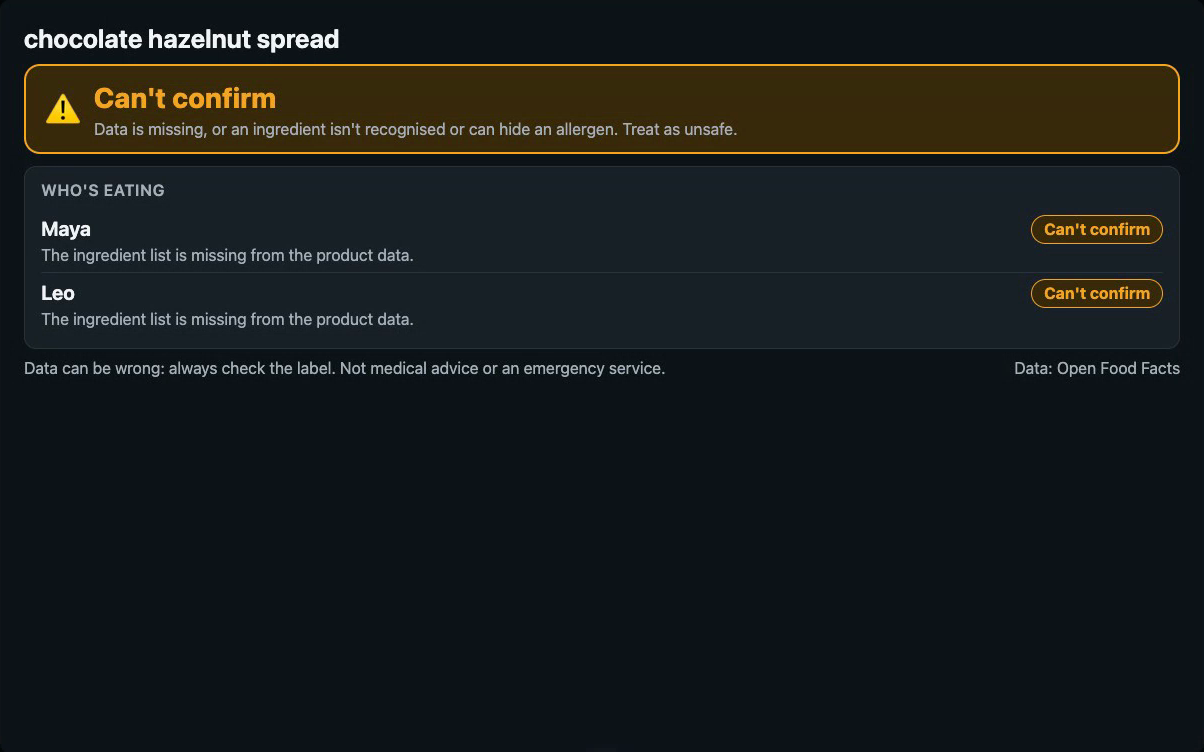
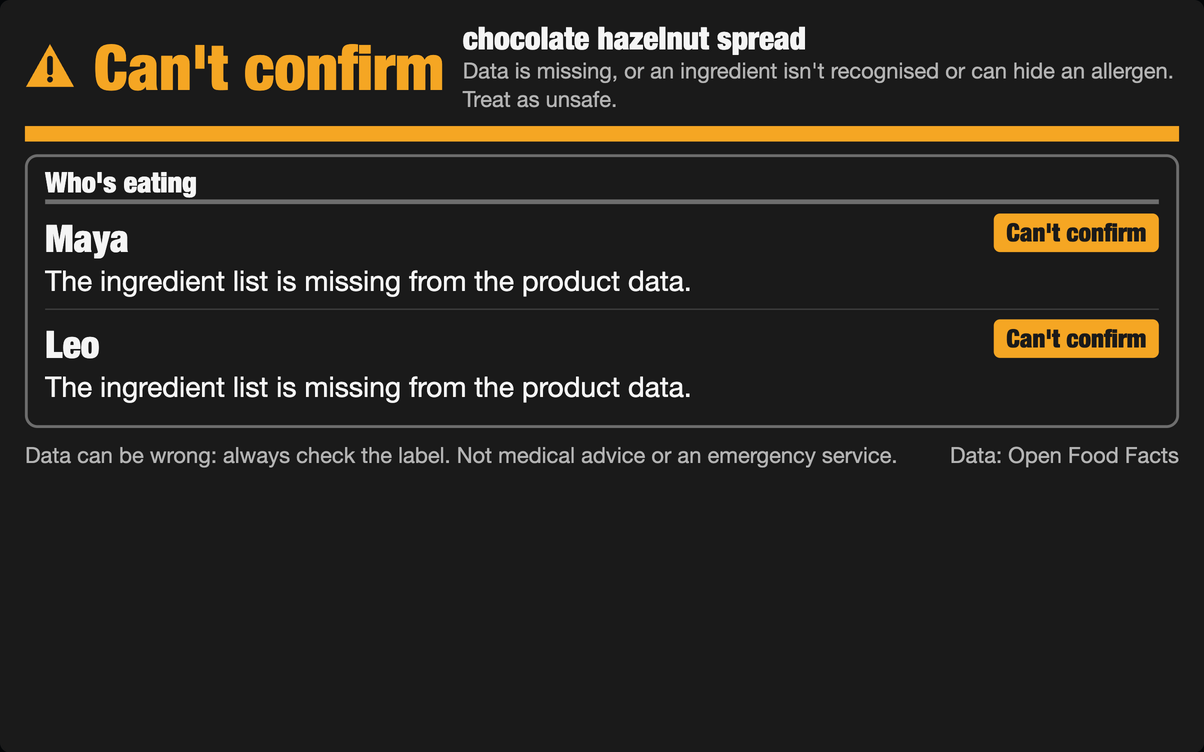
docs: demo video v8

Changed region(s): [[0.0, 0.0306, 0.9834, 0.6423], [0.799, 0.367, 0.9834, 0.5199]]

diff --git a/docs/DEMO.md b/docs/DEMO.md
@@ -1,14 +1,16 @@
 # Demo video
 
-The submitted video (2:56, 3840×2160 at 60 fps, recorded 8 October 2026) is a real run, not a mock-up:
+The submitted video (2:57, 3840×2160 at 60 fps, recorded 11 October 2026) is a real run, not a mock-up:
 - The simulator was recorded in headless Chrome while a local model (Qwen3.5 9B, MLX) drove the MCP server, with live Open Food Facts and TheMealDB data.
 - The waits for the model were cut.
+- The server's clock was set to 8 October 2026 12:00, the day Alexa's lines were captured, so the guest's end date ("until Saturday 10 October") and every answer match those captures.
 - Frames were captured losslessly at 2× device scale (Chrome DevTools screencast) and encoded once at the end, so the text stays sharp at 4K.
+- The simulator shows the screen as an Echo Show 8 would (1280×800, scaled to fit). Captions and the short labels were added in editing, timed to the spoken words; zooms and the dimming around them were recorded in the browser.
+- The opening and closing slides are HTML pages recorded the same way.
 - Alexa's lines are Amazon's own Alexa voice, rendered in the Alexa developer console (a private test skill, Test tab, Voice & Tone) from the exact text the run returned.
 - The narrator and the user are local text-to-speech with Boson AI's Higgs Audio (Higgs TTS 3), used under its Creator Use Grant, from reference voices made for this project, so no real person's voice is imitated.
 - Credit, as the licence asks: "This audio was created with Boson AI's Higgs Audio — https://www.boson.ai/higgs-audio".
 - Alexa's lines are exactly what the run returned. Every clip was checked against its script with Whisper.
-- The recorded run rendered the widget in the simulator's earlier 944×590 frame (the simulator's own size, not an Echo Show spec), scaled to fill the video frame. The simulator now emulates an Echo Show 8 (1280×800 with the guide's 1.667 root scale over a 768×480 base canvas), and the widget was re-measured to fit; the video was not re-recorded, so it shows the earlier layout.
 - Products are shown by their generic names from the records.
 - The phone scans were recorded with Chrome's fake camera showing an image of each product's real barcode; the scan page decoded them live.
 
@@ -16,18 +18,20 @@ The submitted video (2:56, 3840×2160 at 60 fps, recorded 8 October 2026) is a r
 
 | On screen | Audio |
 |---|---|
-| A product record: chocolate hazelnut spread, allergens none listed, ingredients missing | "This is a real product record from Open Food Facts: a chocolate hazelnut spread, with an empty allergen list. A checker that only trusts that list would call it allergen-free." Then: "It's not rare: more than half the products scanned in the Open Food Facts app look like this." On screen: "53% of products scanned in the Open Food Facts app look like this". |
-| Title card | "Allergy Crosscheck is an Alexa+ add-on that checks food for everyone at the table, and tells you who can eat it, and why." |
-| Simulator, idle | "This is a simulated Alexa+ on an Echo Show, driven by a local AI model through my MCP server." |
+| A product record: chocolate hazelnut spread, allergens none listed, ingredients missing; a stamp: "A checker that trusts this list: 'No allergens'"; then "4.8 million records in Open Food Facts" and "53% of the products people scan look like this" | "This is a real product record from Open Food Facts: a chocolate hazelnut spread, with an empty allergen list. A checker that only trusts that list would call it allergen-free." "It's not rare: of 4.8 million products in Open Food Facts, more than half of the ones people scan look like this." |
+| Title card with the three verdicts | "Allergy Crosscheck is an Alexa+ add-on that tells you who at the table can eat it, and why." |
+| Simulator, idle | "This is a simulated Alexa+ on an Echo Show: a local AI model drives my MCP server." |
 | Voice turn | User: "Alexa, save Maya. She's allergic to peanuts and tree nuts." Alexa confirms. |
-| Voice turn | User: "Leo from next door is coming on Saturday. He can't have dairy or celery." Alexa: "…guest Leo until Saturday 10 October: milk and celery." Narrator: "Guests stop being checked after their last day." |
-| Voice turn: the lasagne verdict, zooming on the cards | User: "Check tonight's lasagne for Saturday." Alexa: "Leo should avoid this: it contains celery and milk…" Narrator: "For Leo, it's avoid, with the exact ingredients." "For Maya, none of her allergens are listed. That's the yes, as far as the data goes." (zoom on "Who's eating"). No dairy-free cheese swap, because it's often cashew-based and Maya can't have tree nuts. |
-| Phone scan: the spread's barcode, on the scan page | Narrator: "You can read out a barcode, but it's tedious. Scan it on your phone instead, then just ask." |
-| Voice turn | User: "Can Maya and Leo have what I just scanned?" Alexa: "I can't confirm this is OK for Maya and Leo: the ingredient list is missing from the product data…" Narrator: missing data never becomes "no allergens". |
+| Voice turn | User: "Leo from next door is coming on Saturday. He can't have dairy or celery." Alexa: "…guest Leo until Saturday 10 October: milk and celery." Narrator: "It remembers the household across sessions, and stops checking for guests after their visit." |
+| Voice turn: the lasagne verdict, then zooms on the cards | User: "Check tonight's lasagne for Saturday." Alexa: "Leo should avoid this: it contains celery and milk…" Narrator: "For Leo, it's avoid, with the exact ingredients." "For Maya, none of her allergens are listed. That's the yes, as far as the data goes." "Every swap is checked against everyone: no dairy-free cheese, because it's often made from cashews." |
+| Phone scan: the spread's barcode, on the scan page | Narrator: "Reading out a barcode is tedious. Scan it on your phone, then just ask." |
+| Voice turn | User: "Can Maya and Leo have what I just scanned?" Alexa: "I can't confirm this is OK for Maya and Leo: the ingredient list is missing from the product data…" |
 | Phone scan: a hot cocoa mix | (the scan page finds it) |
-| Voice turn | User: "And this one I just scanned?" Alexa: avoid for Leo (milk, in the whey, caseinate and lactose), can't confirm for Maya. Narrator: the record lists soy as its only allergen and milk only as a "may contain"; the ingredient text adds the milk. |
-| Slide: test harness in my simulator | "Testing on a real model, I caught it claiming to save a guest it never saved. So every check result starts with the verdict and every result carries the exact sentence to say, and my simulator holds the model to it, word for word." |
-| Slide: how it's built | Narration: "A self-hosted MCP server, an MCP Apps screen built to the Alexa+ design guide, and an open-source allergen engine, with tests that try to trick it into saying safe." (Accuracy note: the video shows the earlier 944x590 layout; the current screen is authored at the guide's 768×480 base canvas and measured at 768×480 and 1280×800 in headless Chrome, not on a real Echo Show.) Last line: "Allergy Crosscheck: who at the table can eat it, and why." |
+| Voice turn, zoom on "What I found" | User: "And this one I just scanned?" Alexa: avoid for Leo (milk, in the whey, caseinate and lactose), can't confirm for Maya. Narrator: "This record lists soy as its only allergen, and milk only as 'may contain'. Crosscheck reads the ingredients and finds the milk." |
+| Slide: keeping the model honest (a model draft with no tool call, struck through and replaced by the simulator's sentence; the tool's own verdict, spoken word for word) | "On a real model, I caught it claiming a save it never made, so my simulator now holds it to the verdict, word for word." The draft on the slide is an example of that kind of claim; the replacement is the simulator's exact sentence. |
+| Slide: under the hood (Alexa+ → MCP server → MCP Apps screen; allergen engine → open data) | "Under the hood: a self-hosted MCP server with nine tools, an MCP Apps screen built to the Alexa+ design guide, and an open-source allergen engine measured on 4.8 million real products." |
+| Slide: 1 in 15 US adults, with the source (CDC, National Health Interview Survey 2024, released 8 January 2026: 6.7% of adults, 5.3% of children) | "About one in fifteen adults in the US has a food allergy, and every shared meal means checking for everyone. Allergy Crosscheck does that check, says so when it can't, and its engine is open source, so any allergy feature can start fail-closed." |
+| End card | "Allergy Crosscheck: who at the table can eat it, and why." |
 
 ## Recording it yourself
 

diff --git a/docs/SUBMISSION.md b/docs/SUBMISSION.md
@@ -107,7 +107,7 @@ alexa+, model-context-protocol, mcp-apps, streamable-http, typescript, node.js, 
 - Code repository: <GitHub URL, once the author decides private or public>
 
 ## Video demo link
-<YouTube URL, after the upload>. The file is `docs/video/allergy-crosscheck-demo.mp4` (2:56, 4K at 60 fps, recorded 8 October 2026), with captions in `docs/video/allergy-crosscheck-demo.srt`.
+<YouTube URL, after the upload>. The file is `docs/video/allergy-crosscheck-demo.mp4` (2:57, 4K at 60 fps, recorded 11 October 2026), with captions in `docs/video/allergy-crosscheck-demo.srt`.
 
 ## Image gallery (upload in this order)
 Files are in `docs/video/gallery/`, padded to 3:2.
@@ -233,10 +233,10 @@ Paste `docs/FRICTION_LOG.md`: seven entries, in the format the rules ask for.
   - three verdicts, none of which is "safe";
   - product checks that read Open Food Facts allergen tags, traces and ingredient text together;
   - swaps filtered against everyone's allergies, and never a plant relative of what they replace.
-- **Why it matters:** allergy features keep being rebuilt in apps and assistants, and the easy version (trust the allergen tags, answer "safe") is dangerous. This gives anyone a tested, fail-closed core. It has 92 tests of its own, including 54 ingredient–allergen pairs that must never pass. The Open Food Facts measurement (above) shows the failure it prevents.
+- **Why it matters:** allergy features keep being rebuilt in apps and assistants, and the easy version (trust the allergen tags, answer "safe") is dangerous. This gives anyone a tested, fail-closed core. It has 92 tests of its own, including 54 ingredient–allergen pairs that must never pass. The Open Food Facts measurement (above) shows the failure it prevents. The engine is open source (MIT), so any allergy feature can start fail-closed.
 
 ## YouTube upload (not part of the Devpost form)
-- **File:** `docs/video/allergy-crosscheck-demo.mp4` (2:56, 4K at 60 fps), with captions in `docs/video/allergy-crosscheck-demo.srt` (English).
+- **File:** `docs/video/allergy-crosscheck-demo.mp4` (2:57, 4K at 60 fps), with captions in `docs/video/allergy-crosscheck-demo.srt` (English).
 - **Title:** Allergy Crosscheck: who at the table can eat it, and why (Alexa+ hackathon demo)
 - **Visibility:** Public. The rules say "publicly visible", and Unlisted may not count. This is the author's call.
 - **Altered or synthetic content:** yes. The voices are synthetic: Alexa's lines are Amazon's Alexa voice from the developer console; the narrator and the user are AI-generated.
@@ -253,13 +253,14 @@ Built for Amazon's Build, Ship, Shape hackathon (Alexa+ track): a self-hosted MC
 Code: <repository URL>
 
 0:00 The problem: a record with an empty allergen list
-0:17 What it does: who at the table can eat it, and why
-0:32 Saving the household and a guest
-0:54 Checking tonight's lasagne for everyone
-1:31 Scan on a phone: missing data means "can't confirm"
-1:57 A cocoa mix whose tags miss the milk
-2:26 Keeping the model honest
-2:39 How it's built
+0:18 What it does: who at the table can eat it, and why
+0:31 Saving the household and a guest
+0:55 Checking tonight's lasagne for everyone
+1:29 Scan on a phone: missing data means "can't confirm"
+1:48 A cocoa mix whose tags miss the milk
+2:14 Keeping the model honest
+2:23 How it's built
+2:36 Who it's for, and the open engine
 ```
 
 ## Repository access (not part of the Devpost form)
